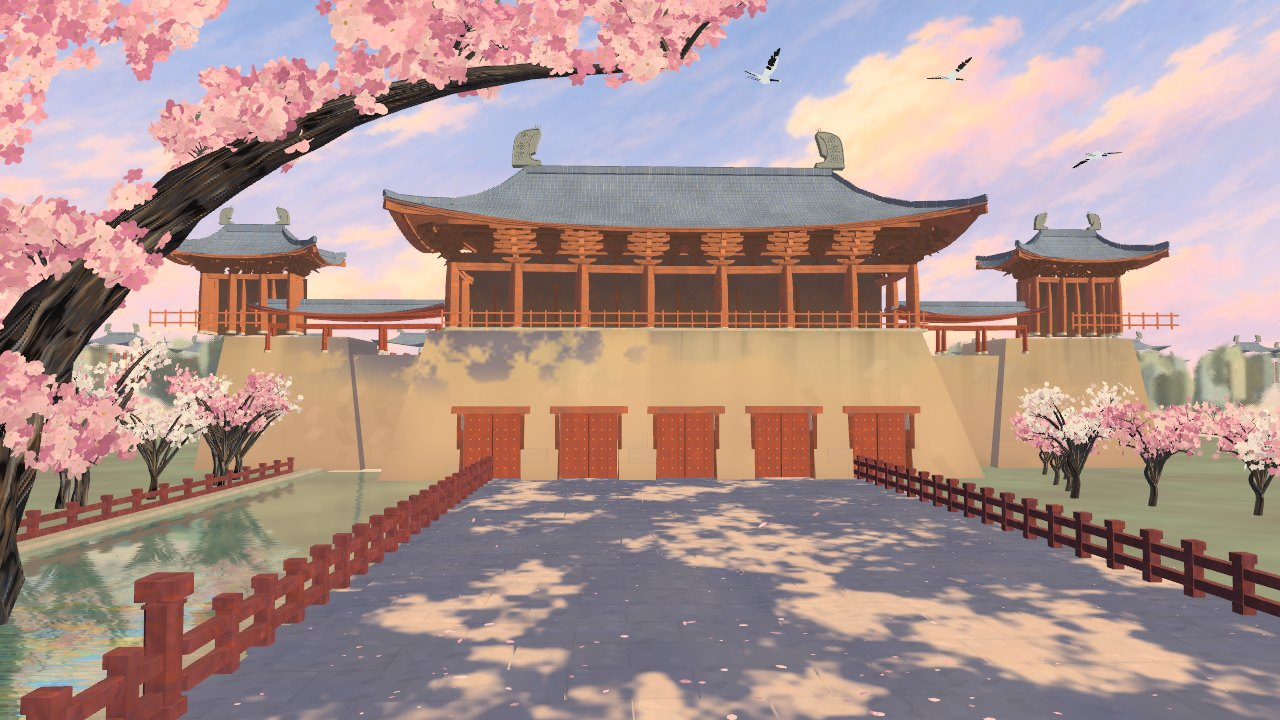
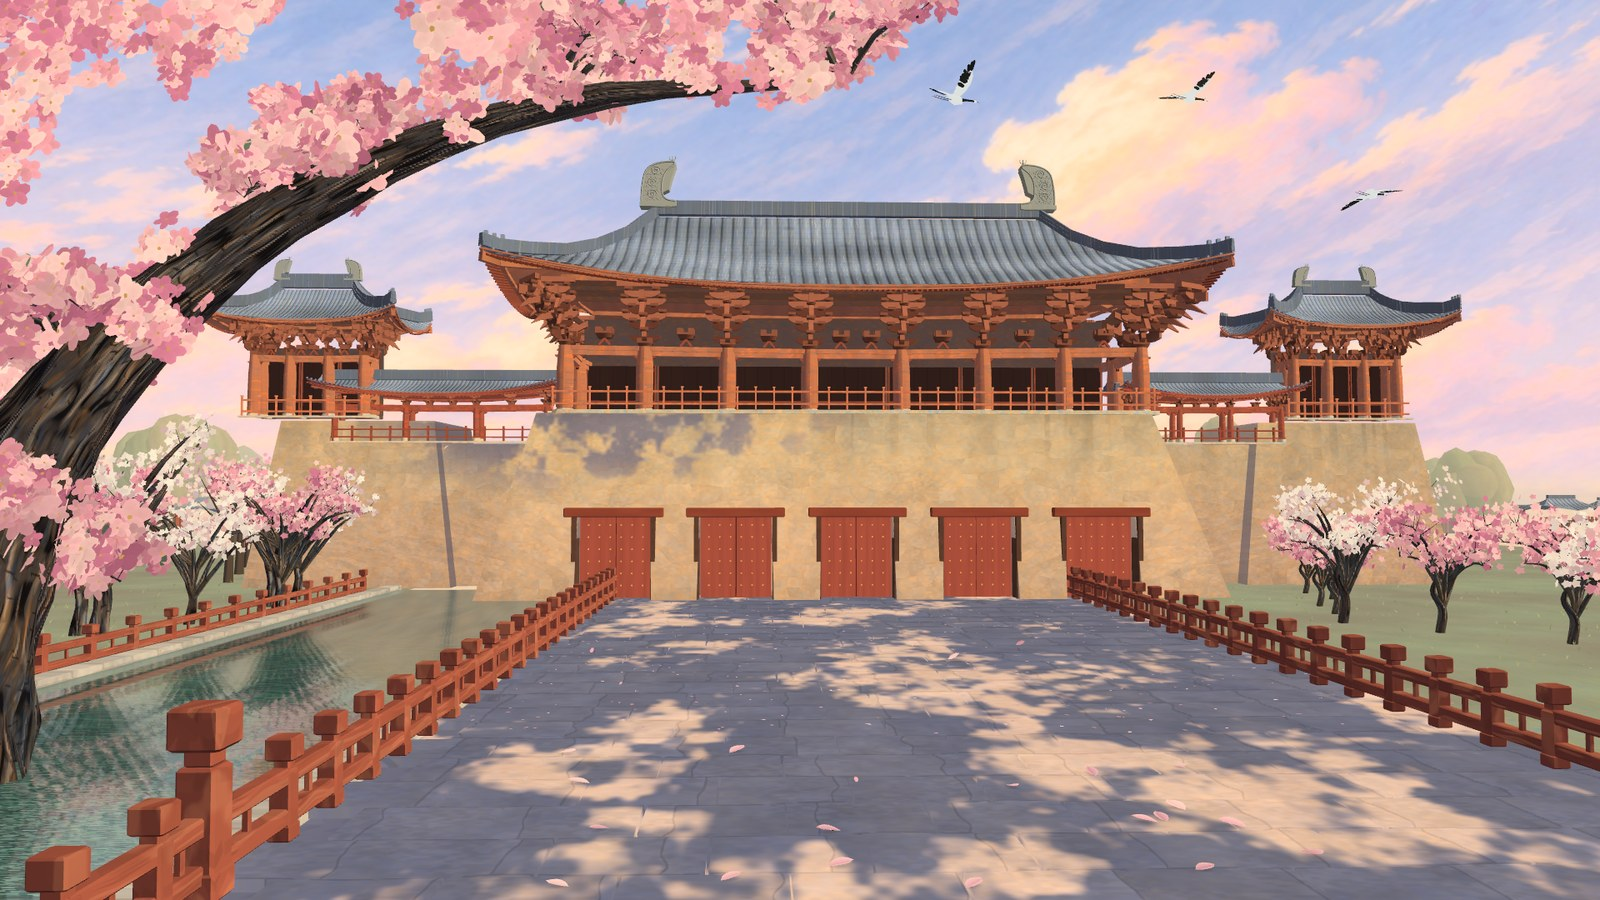
Update the docs and screenshots for the detailed version

diff --git a/docs/BACKLOG.md b/docs/BACKLOG.md
@@ -5,19 +5,20 @@ Known faults, biggest first within each group.
 ## The painted scenes
 
 Whole-picture
-- Reads as a painted animation background, but it's simpler than the targets. Brush character isn't matched, even where `test/gates/detail.py` passes. That gate measures how much detail there is, not how it's arranged.
-- Frame rate on a real GPU is unmeasured. Shimmer is measured only on 10 frames from a fixed camera, in software.
+- Reads as a painted animation background and is much closer to the targets after D1 to D4, but it's still cleaner and more regular than they are. Edges are crisper and marks less varied. `test/gates/detail.py` measures how much detail there is, not how it's arranged.
+- The detailed version hasn't been measured on a real GPU. On high-DPI screens it now starts at a pixel ratio of up to 2, not 1.5. The adaptive quality ladder protects slower machines.
 - Portrait phones crop the scenes heavily, and the English gloss takes noticeable space there.
 
 宣德楼
-- The wall has swung between camouflage, plastic, granite and plain. It's plain now, with broad washes and the tree's shadow, and it lacks c1's lichen, stone blocks and streaks.
-- Bracket sets read as stacked bars, not fans of arms. The roof has less tile weight than c1.
-- Blossom is flatter than c1's, and the grass is plain.
+- The wall is much richer but still plainer than c1. It has few distinct flaked stones, so it stays closer to a wash.
+- Corner bracket clusters are spiky and busier than c1's. Tile rows are more regular.
+- The bark is too fluted, and near-rail paint wear is restrained. Distant trees at the right are soft smooth domes.
 
 州桥
-- Bark is rich but too fluted. Boat wear is angular. Some blockiness remains on the quay's caps.
-- The bridge and its bright reflection merge into one tan band, with a hard line at the reflected deck.
-- Paving is greyer than c2, with weaker peach dapple.
+- Stone is more regular than c2. Bridge piers and balustrade have less wear, and pale ghost piers show in the water just below the bridge.
+- The boat is darker than c2's, with less dappled sunlight on it.
+- The trunk is smoother than c2's. Paving dapple is a little busy.
+- Willows by the towers cover more of them than in c2. The tower brackets are dense.
 
 ## The earlier photoreal city
 

diff --git a/README.md b/README.md
@@ -20,11 +20,11 @@ There are no people yet.
 | Input | Action |
 |---|---|
 | Nothing | The camera drifts slowly along the scene's path |
-| Pointer | Look around a little |
+| Pointer | Look around: up to 6° to each side and 3° up or down |
 | Drag or wheel | Move along the path. Drift resumes a few seconds later |
 | ← → or the on-screen arrows | Change scene |
 | C | Show or hide captions |
-| P | Show frame rate, draw calls, triangles and pixel ratio |
+| P | Show frame rate, draw calls, triangles, pixel ratio, quality level and GPU |
 
 ## Running it
 
@@ -36,7 +36,9 @@ node tools/build.mjs        # static site in dist/, upload it to any host
 
 `?scene=0` or `?scene=1` opens a scene directly.
 
-Tested in headless Chromium with software rendering only. **Frame rate on a real GPU has not been measured.** Press `P` to see it. Each scene is at most 30 draw calls and about 1.1 M triangles.
+An earlier, less detailed version ran at 60 FPS, locked to vsync, on an RTX 3070 Laptop GPU. This version costs less than that one in software tests, but hasn't been measured on a real GPU yet. Press `P` to see it. Each scene is at most 35 draw calls and about 940,000 triangles.
+
+If a machine can't keep up, the page reduces reflection quality first, then resolution, and recovers when there's room.
 
 ## How accurate is it?
 
@@ -61,6 +63,9 @@ node test/gates/scroll.mjs            # the scroll works from a sub-path of the 
 python3 -I test/gates/detail.py c1 <render.png>     # surface detail against a target
 python3 -I test/gates/regions.py c1 <render.png>    # regional values against a target
 python3 -I test/gates/shimmer.py <frames-dir>       # flicker on consecutive frames from a fixed camera
+python3 -I test/gates/crops.py c1 <render.png> <dir> # target above render, region by region
+python3 -I test/gates/colour.py <render.png>         # colour of 州桥's water and willows against the target
+node test/gates/perf.mjs                             # frame cost in software, to compare versions
 ```
 
 ## The earlier version

diff --git a/docs/ROADMAP.md b/docs/ROADMAP.md
@@ -7,13 +7,16 @@ The painted impression, on branch `impression`. `docs/IMPRESSION.md` is the brie
 | P0 to P3 | `src/paint/` toolkit, 州桥 composed to `refs/style/c2.png` | Done, see backlog |
 | S1 to S2 | 宣德楼 composed to `refs/style/c1.png`, shared blossom | Done, see backlog |
 | S3 to S4 | Broken colour, braided bark, surface polish on both scenes | Done, see backlog |
-| U1, U1b | The scroll: opening, drift, scrub, paper sweep, captions from 《東京夢華錄》, frame-rate readout | Done |
+| U1, U1b | The scroll: opening, drift, scrub, paper sweep, captions from 《東京夢華錄》, frame-rate readout | Done, accepted by the client |
+| D1, D1b | Wider look range and paths, two-way adaptive quality, culling of what's never seen | Done |
+| D2, D2b | Tile rows, ridges, bracket sets, round columns, deep interiors, the bridge's piers | Done |
+| D3 | Painted stone routine, flaked wall, rails, paving, petals, boat, rope, bark | Done |
+| D4, D4b, D4c | Water strokes and reflections, willows, blossom, grass, distance, near stone on 州桥 | Done |
 
 ## Waiting on the client
 
-1. **Frame rate on a real GPU.** Press `P`. Everything so far has run in software, and this sets the budget for further scenes.
-2. **Is a scroll the right format?** It's a thin layer, so it's cheap to change.
-3. **More scenes?** Proposed: 御街, 大庆殿 at dawn, the 汴河 with boats, and a night market. Each needs a target image the client approves first, as c1 and c2 were.
+1. **Frame rate of the detailed version.** The earlier version held 60 FPS on their RTX 3070 Laptop GPU. This one costs less in software tests, but only a real GPU can confirm it. Press `P`.
+2. **More scenes?** Proposed: 御街, 大庆殿 at dawn, the 汴河 with boats, and a night market. Each needs a target image the client approves first, as c1 and c2 were.
 
 ## Later
 
